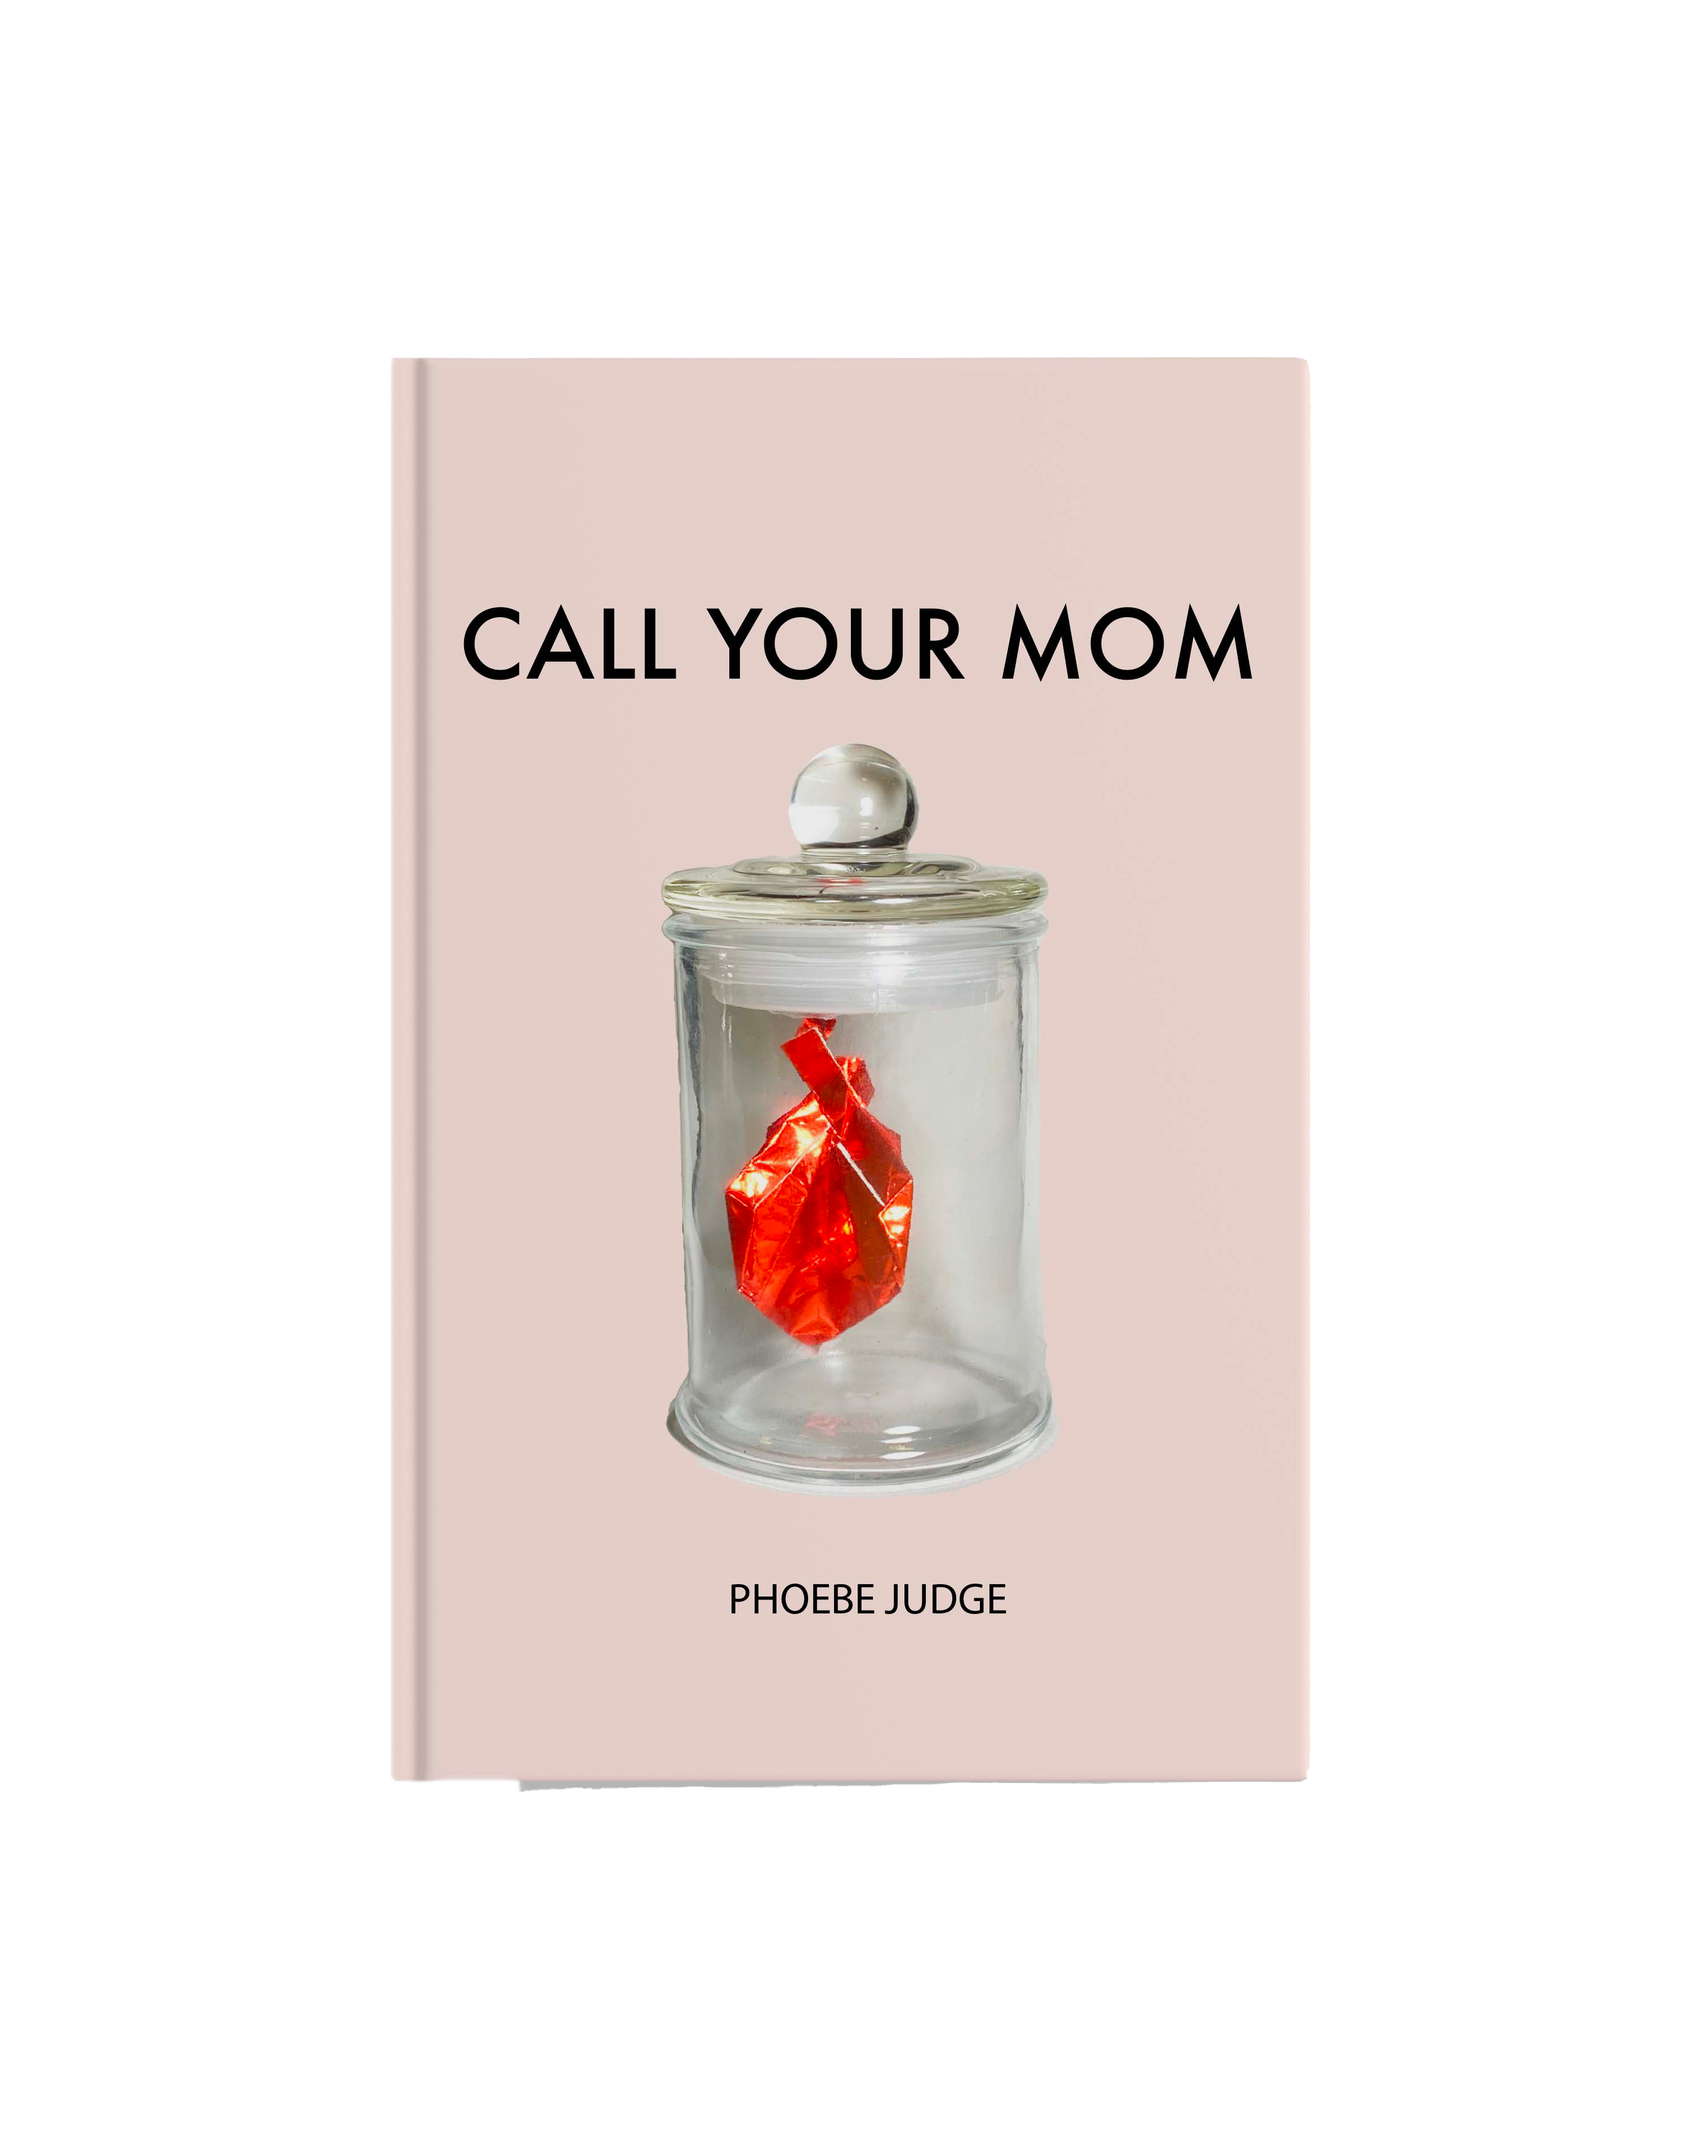
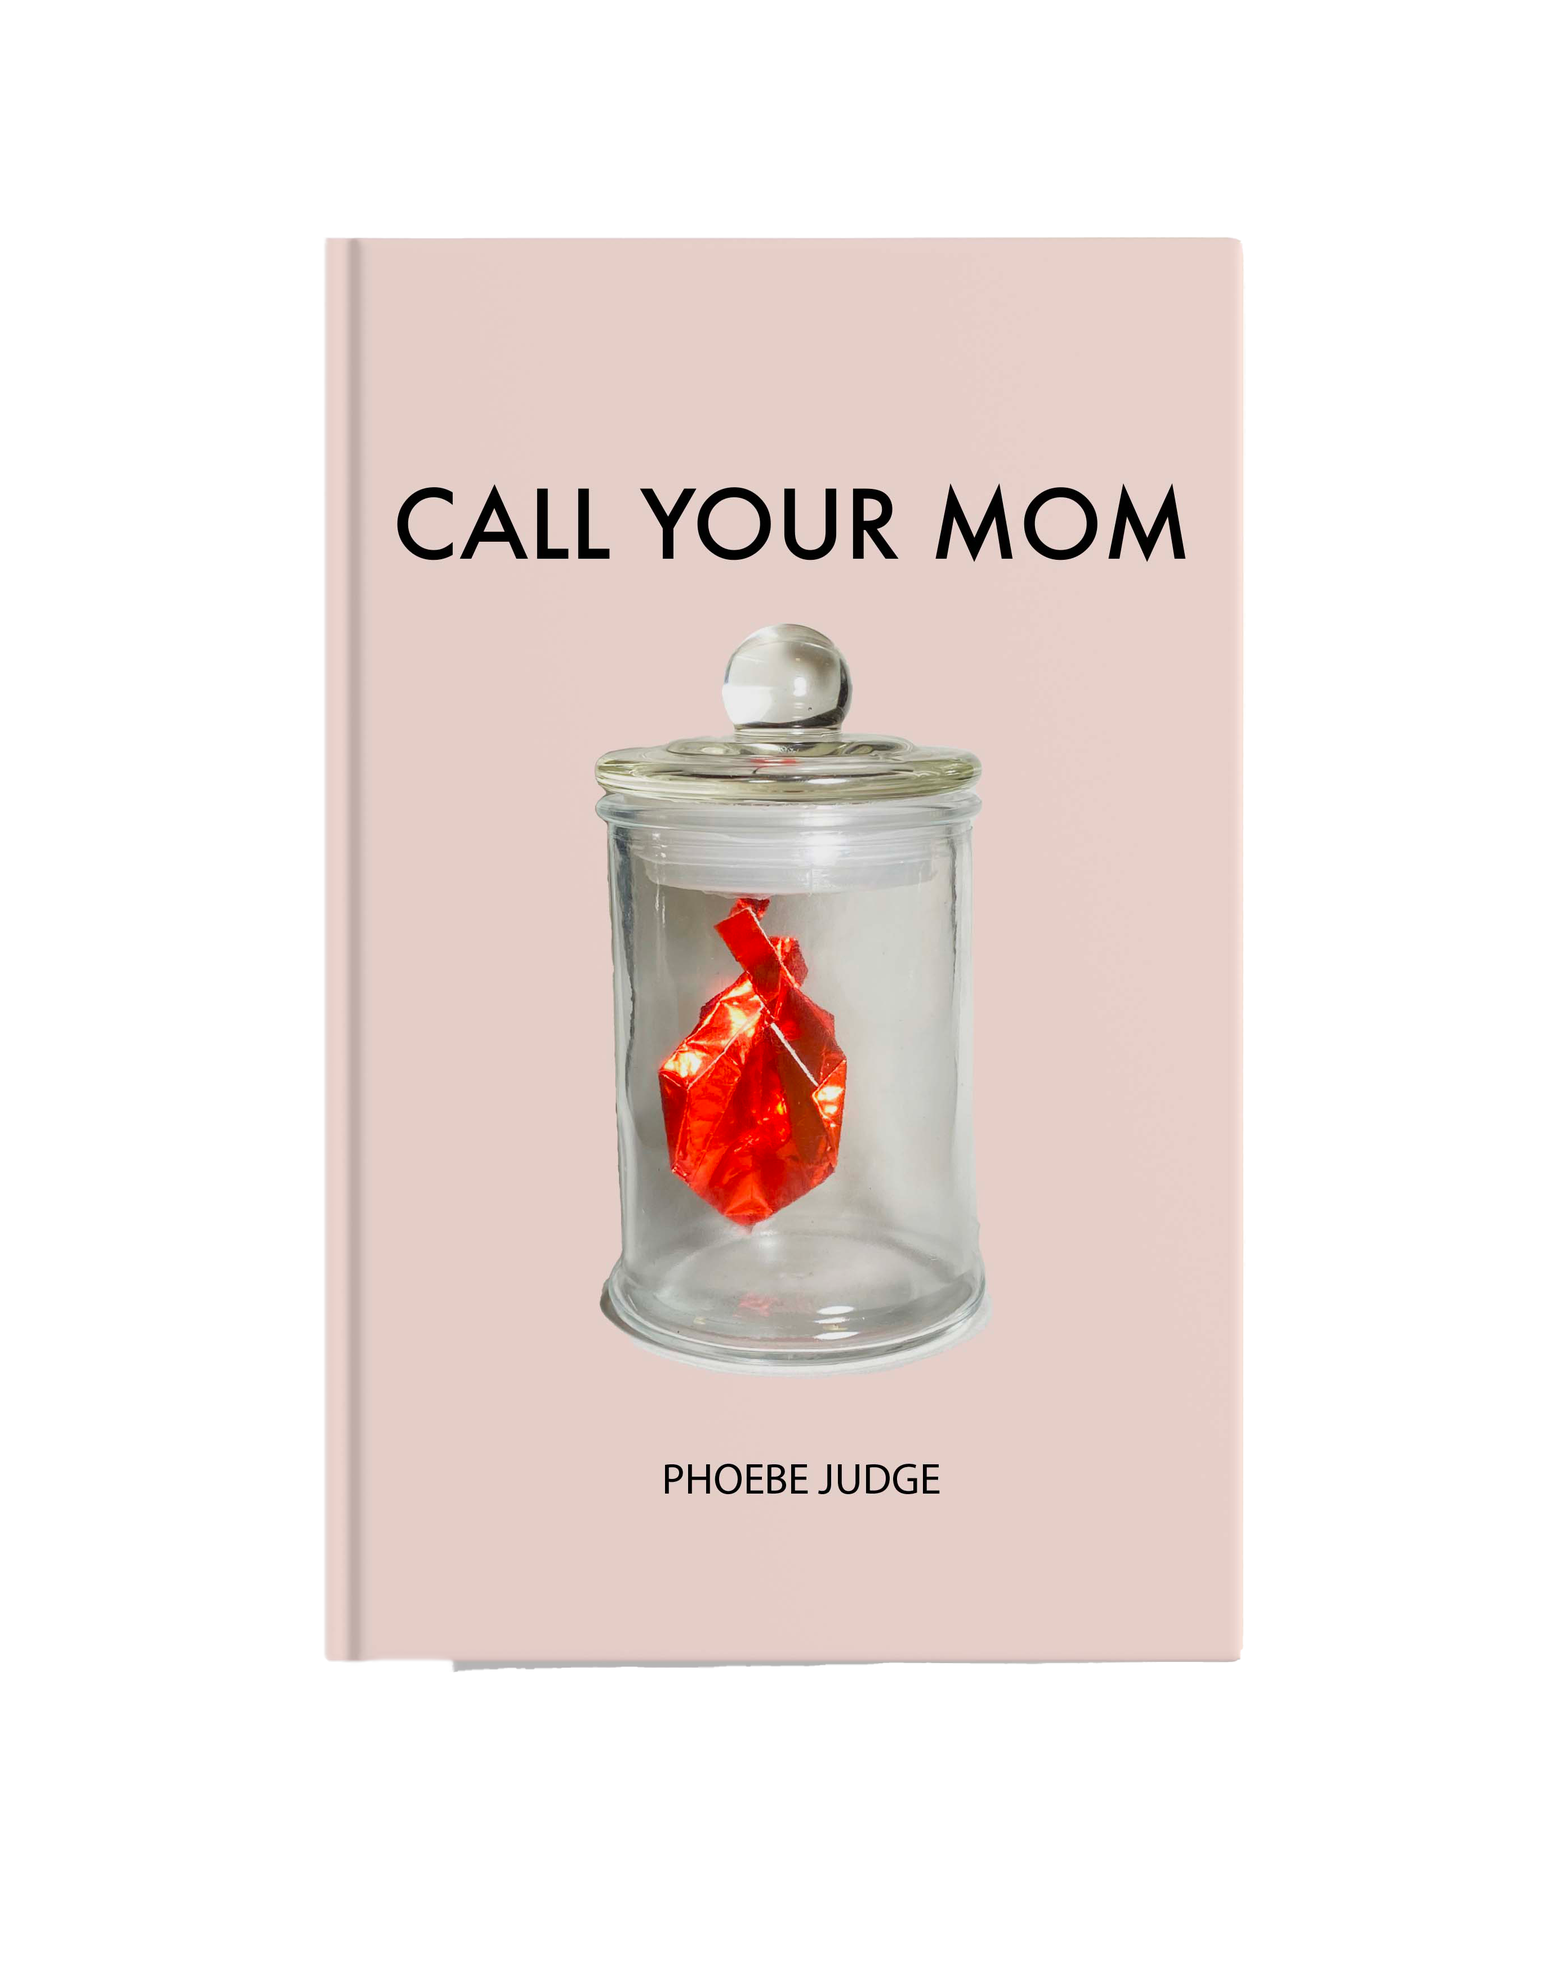
updated links

Changed region(s): [[0.1866, 0.0933, 0.8087, 0.8708], [0.4354, 0.7153, 0.591, 0.7775]]

diff --git a/callyourmom.index.html b/callyourmom.index.html
@@ -79,7 +79,8 @@
 
                         <i>
                            We were tasked to create three book covers based on the podcasts we've chosen from a list.
-                           I've chosen Phoebe Judge.
+                           I've chosen Phoebe Judge. Each podcasts found within the Phoebe Judge episodes deals with 
+                           alot of mysteries and horrors which I tend to enjoy.
                         </i>
 
                     </p>

diff --git a/dohalogo.index.html b/dohalogo.index.html
@@ -78,7 +78,8 @@
                     <p>
 
                         <i>
-                           We were tasked to create a logo for a city of our choice
+                           We were tasked to create a logo for a city of our choice. The city I've chosen was Doha which is located
+                           in Qatar. I became drawn to the city's attractions and its significant culture.
                         </i>
 
                     </p>

diff --git a/eurostarpin.index.html b/eurostarpin.index.html
@@ -78,7 +78,8 @@
                     <p>
 
                         <i>
-                           We were tasked to redesign the Honolulu Flag.
+                           The instructions were to pick a company with a logo that needs to be redesigned.
+                           I ended up choosing Eurostar, an international high-speed rail service that connects the U.K with France.
                         </i>
 
                     </p>

diff --git a/flagdesign.index.html b/flagdesign.index.html
@@ -78,7 +78,7 @@
                     <p>
 
                         <i>
-                           We were tasked to redesign the Honolulu Flag.
+                           We were tasked to redesign the Honolulu Flag using the design process.
                         </i>
 
                     </p>

diff --git a/css/style.css b/css/style.css
@@ -84,7 +84,7 @@ header, section, footer, aside, nav, main, article, figure {
   
   /* #IMAGES */
   img {
-    max-width: 95%;
+    max-width: 99%;
     height: auto;
   }
   
